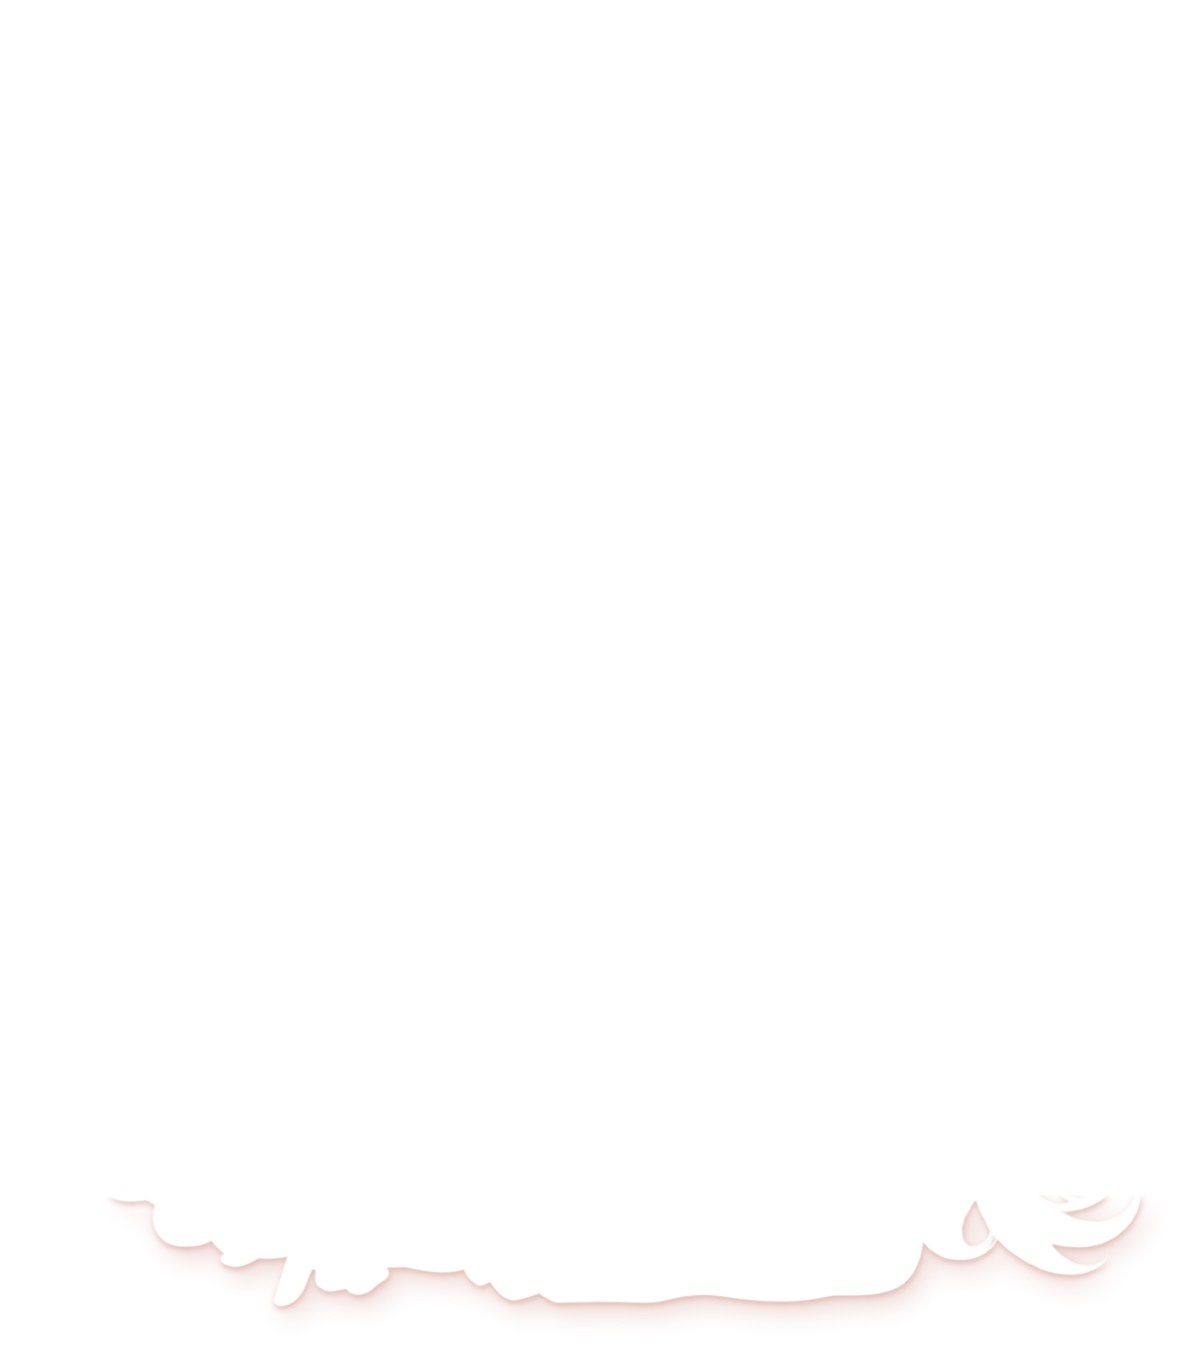
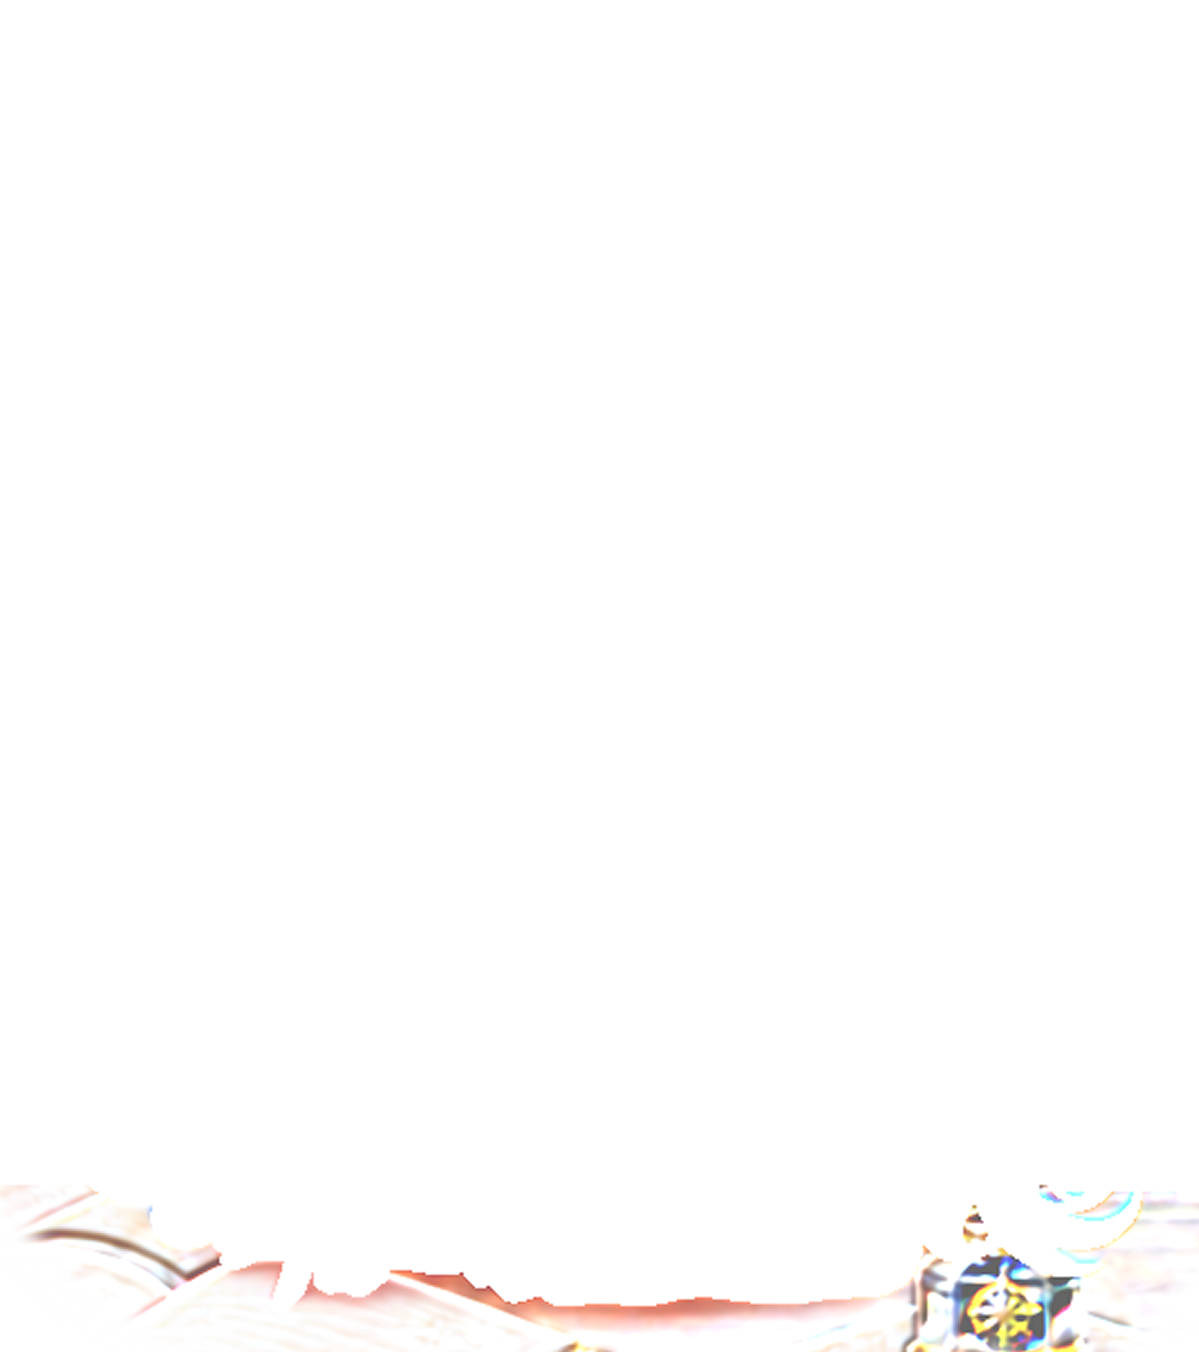
第二步完成：接触阴影取自 GPT round18，按比值搬到高清人物层和桌面投影层

Changed region(s): [[0.0309, 0.8698, 0.9875, 1.0]]

diff --git a/tools/char_layers.py b/tools/char_layers.py
@@ -16,6 +16,7 @@
 用法：python3 tools/char_layers.py --src <素材目录>/round6/relit3 [--override <素材目录>/round16] [--desk <素材目录>/round15/desk-fixed.png] [--debug <目录>]
 （--override 目录里有同名立绘时优先用它，没有的仍用 --src）
 给 GPT 画光影的输入图：python3 tools/char_layers.py --src … --desk <round15/desk-fixed.png> --compose <素材目录>/round17/输入
+阴影取自 GPT（第二步）：python3 tools/char_layers.py --src … --shade-from <素材目录>/round18 --inputs <素材目录>/round17/输入
 """
 import sys
 from pathlib import Path
@@ -56,7 +57,7 @@ EDGE = round(((DESK_BACK - FIG_Y) / FIG_K + 3) * S)   # 桌面后沿换成立绘
 CANVAS_DY = 27             # 只用于给 GPT 的输入图：整张画面往下移的像素（角色上提后呆毛会超出画布顶部）
 
 
-def char_layer(src, shade=True):
+def char_layer(src, shade=True, gpt=None):
     im = Image.open(src).convert('RGBA')
     if im.size != (W, H):
         im = im.resize((W, H), Image.LANCZOS)
@@ -76,6 +77,10 @@ def char_layer(src, shade=True):
         a[..., 3] *= 1 - side * ramp
     if not shade:   # 给 GPT 的输入图：不加我们的阴影
         return Image.fromarray(np.clip(a, 0, 255).astype('uint8')), None
+    if gpt is not None:   # 阴影取自 GPT（第二步 round18）：人物乘 fig，桌面投影层用 shadow
+        fig, shadow = gpt
+        a[..., :3] *= fig
+        return Image.fromarray(np.clip(a, 0, 255).astype('uint8')), shadow
     al = a[..., 3] / 255
     body = (al > 0.5) & (yy >= EDGE - AO_TOP)
     # 环境遮蔽：人物贴近桌面的部分（袖子下沿、袖口、手腕、手的下侧）被桌面挡光，按「往下到人物下沿的距离」压暗，
@@ -167,10 +172,83 @@ def compose_inputs(src, override, desk, out):
         print('wrote', out / f'compose-{key}.png', out / f'mask-{key}.png')
 
 
+def fit_desk(gpt_a, inp_a):
+    """GPT 常把整张轻微缩放、平移（横竖各约 0–1%、几像素）。用书桌轮廓（左右边、上下边）做线性拟合，
+    返回 (sx, sy, dx, dy)：输入图坐标 = s × GPT 坐标 + d。"""
+    def ex(a, rows):
+        out = []
+        for y in rows:
+            xs = np.nonzero(a[y] > 128)[0]
+            out.append((xs.min(), xs.max()) if len(xs) else (np.nan, np.nan))
+        return np.array(out, float).T.ravel()
+    def ey(a, cols, y0):
+        out = []
+        for x in cols:
+            ys = np.nonzero(a[y0:, x] > 128)[0]
+            out.append((ys.min() + y0, ys.max() + y0) if len(ys) else (np.nan, np.nan))
+        return np.array(out, float).T.ravel()
+    rows = np.arange(720, 1020, 10)
+    cols = np.concatenate([np.arange(60, 330, 15), np.arange(1150, 1340, 15)])
+    xg, xi = ex(gpt_a, rows), ex(inp_a, rows)
+    yg, yi = ey(gpt_a, cols, 560), ey(inp_a, cols, 560)
+    ok = ~np.isnan(xg) & ~np.isnan(xi)
+    sx, dx = np.polyfit(xg[ok], xi[ok], 1)
+    ok = ~np.isnan(yg) & ~np.isnan(yi)
+    sy, dy = np.polyfit(yg[ok], yi[ok], 1)
+    return sx, sy, dx, dy
+
+
+def gpt_shading(gpt_path, inp_path, mask_path):
+    """把 GPT 画的接触阴影搬到高清图层上（不直接用 GPT 的像素：它只有 1405 宽，而且整体会变暗）。
+    比值 = 模糊后的 GPT 图 / 模糊后的输入图（先按书桌拟合对齐），再除以人物上半身的整体漂移（GPT 整体变暗的部分）。
+    返回 (fig, shadow)：fig 是人物层（立绘坐标 × S）要乘的系数，只在桌沿附近生效；
+    shadow 是桌面投影层（立绘坐标，半分辨率），页面里正片叠底。"""
+    g = Image.open(gpt_path).convert('RGBA')
+    I = np.asarray(Image.open(inp_path).convert('RGBA')).astype(float)
+    sx, sy, dx, dy = fit_desk(np.asarray(g)[..., 3], I[..., 3])
+    G = np.asarray(g.transform((I.shape[1], I.shape[0]), Image.AFFINE, (1 / sx, 0, -dx / sx, 0, 1 / sy, -dy / sy),
+                               resample=Image.BICUBIC)).astype(float)
+    m = np.asarray(Image.open(mask_path)) > 0
+    yy = np.arange(I.shape[0])[:, None] * np.ones((1, I.shape[1]), int)
+    edge = DESK_BACK + CANVAS_DY
+    blur = lambda x, s: np.stack([ndimage.gaussian_filter(x[..., c], s) for c in range(3)], -1)
+    # 人物上半身的整体漂移（远离桌面，GPT 不该改的地方）
+    upper = ndimage.binary_erosion(m, iterations=8) & (yy < edge - 40)
+    drift = np.median(blur(G, 3)[upper] / np.maximum(blur(I, 3)[upper], 8), axis=0)
+    # 人物身上：只取桌沿附近（上方 25px 渐入），模糊 3px 去掉 GPT 重画线条的细节差，限制在 [0.55, 1]
+    rf = blur(G, 3) / np.maximum(blur(I, 3), 8) / drift
+    w = np.clip((yy - (edge - 25)) / 25, 0, 1)[..., None] * m[..., None]
+    rf = 1 - w * (1 - np.clip(rf, 0.55, 1))
+    # 桌面上（人物外、书桌不透明处）：模糊 1.2px，限制在 [0.4, 1]；书桌远处本来就没变（平均差 2.5），不用除漂移
+    desk = (I[..., 3] > 200) & ~ndimage.binary_dilation(m, iterations=1) & (yy >= edge - 3)
+    rd = np.clip(blur(G, 1.2) / np.maximum(blur(I, 1.2), 8), 0.4, 1)
+    rd[~desk] = 1
+    near = ndimage.gaussian_filter(ndimage.binary_dilation(m, iterations=45).astype(float), 4)[..., None]
+    rd = 1 - near * (1 - rd)
+    # 换到立绘坐标：输入图 (X, Y) = (FIG_X + 250, FIG_Y + CANVAS_DY) + FIG_K × 立绘坐标
+    def to_portrait(f, scale):
+        img = Image.fromarray(np.clip(f * 255, 0, 255).astype('uint8'))
+        k = FIG_K / scale
+        size = (round(W / S * scale), round((H + PAD) / S * scale))
+        out = img.transform(size, Image.AFFINE, (k, 0, FIG_X + 250, 0, k, FIG_Y + CANVAS_DY), resample=Image.BICUBIC,
+                            fillcolor=(255, 255, 255))
+        return np.asarray(out).astype(float) / 255
+    fig = to_portrait(rf, S)
+    f = to_portrait(rd, 1)
+    a = 1 - f.min(-1)                                     # 正片叠底：底色 × (1 − a + a × c) = 底色 × f
+    c = 1 - (1 - f) / np.maximum(a[..., None], 1e-3)
+    shadow = np.zeros(f.shape[:2] + (4,))
+    shadow[..., :3] = np.clip(c, 0, 1) * 255
+    shadow[..., 3] = a * 255
+    print(f'  fit sx {sx:.4f} sy {sy:.4f} dx {dx:+.1f} dy {dy:+.1f}; drift {np.round(drift, 3)}')
+    return fig, Image.fromarray(shadow.astype('uint8'))
+
+
 def main():
     args = sys.argv[1:]
     opt = lambda name: args[args.index(name) + 1] if name in args else None
     src, desk, debug, override = opt('--src'), opt('--desk'), opt('--debug'), opt('--override')
+    shade_from, inputs = opt('--shade-from'), opt('--inputs')   # 第二步：阴影取自 GPT（如 round18），inputs 是对应的输入图目录
     if '--compose' in args:
         compose_inputs(src, override, desk, opt('--compose'))
         return
@@ -183,7 +261,11 @@ def main():
         if override and (Path(override) / f'{name}.png').exists():
             path = Path(override) / f'{name}.png'   # 例如 GPT 改过手的那几张（round16）
         print('source', path.name, '<-', path.parent.name)
-        layer, shadow = char_layer(path)
+        gpt = None
+        if shade_from:
+            gpt = gpt_shading(Path(shade_from) / f'combo-{key}.png', Path(inputs) / f'compose-{key}.png',
+                              Path(inputs) / f'mask-{key}.png')
+        layer, shadow = char_layer(path, gpt=gpt)
         layer.save(DIR / f'char-{key}.png', optimize=True)
         shadow.save(DIR / f'shadow-{key}.png', optimize=True)
         layer.crop(THUMB_BOX).resize((256, 256), Image.LANCZOS).save(DIR / f'thumb-{key}.png', optimize=True)

diff --git a/docs/交接说明.md b/docs/交接说明.md
@@ -93,7 +93,7 @@ node tools/devtools.mjs eval "<JS>"                               # 查 DOM
    - 切换：每个表情一整组（书桌 + 投影 + 人物 + 羽毛笔），新的一组 220ms 完整淡入后旧的再淡出（用户要求人和桌子一起切）。
    - **当前：分三步做光影**（用户决定，2026-10-04）。提示词都在 `<素材目录>/round17/`：
      1. **已完成**（参数 230, −17, 0.96, CANVAS_DY 27，陪伴栏已同步）`第一步-codex-位置-提示词.md`：Codex 调 `tools/char_layers.py` 的 `FIG_X/FIG_Y/FIG_SCALE/CANVAS_DY`（用户手动调过一张：角色约缩小 4%、上提），重新生成 `round17/输入/`。Claude 验收后同步 `skin.css` 人物层位置（按这几个数换算）、重跑人物层、安装截图给用户确认。
-     2. `第二步-GPT-阴影-提示词.md`：GPT 只加接触阴影、颜色亮度不许改，交付 `round18/`。Claude 验收（对位、颜色差 ≤ 5、阴影暖粉不发黑），用蒙版合成到陪伴栏给用户看。
+     2. **已完成**（round18，阴影用 `--shade-from` 搬到高清图层，见修改记录）`第二步-GPT-阴影-提示词.md`：GPT 只加接触阴影、颜色亮度不许改，交付 `round18/`。Claude 验收（对位、颜色差 ≤ 5、阴影暖粉不发黑），用蒙版合成到陪伴栏给用户看。
      3. `第三步-GPT-光泽感-提示词.md`：在 round18 上加左侧冷白窗光和头发逆光，交付 `round19/`。画不好的退路：Claude 用程序加亮边和颜色校正。
    - round17 第一批（`round17/combo-*.png`，按上提 25px 的输入画）验收结果：三张对位对、默认低了 25px 且呆毛和左耳有涂抹；全部偏黄偏暗、没有逆光；呆毛被画布切掉。不用。
    - （被 round17 取代，暂不需要）relit3 默认、眨眼两张的手改成平放压着书页（提示词 `<素材目录>/relit3-手平放-提示词.md`，交付 `round16/`），到了以后验收，再 `python3 tools/char_layers.py --src <素材目录>/round6/relit3 --override <素材目录>/round16` 重跑。

diff --git a/docs/修改记录.md b/docs/修改记录.md
@@ -209,6 +209,14 @@ osascript -e 'quit app "DeepSeek Harness"' && open -a "DeepSeek Harness"
 
 ## 五、版本记录
 
+### 2026-10-04 · 第二步完成：接触阴影取自 GPT（round18），搬到高清图层上
+
+- 备份：`backup/接入GPT阴影前-20261004-112156`。
+- round18 验收：四张真透明；GPT 轻微缩放平移（横 +0.1–0.65%、竖 −0.2–+1.0%、位移 ≤ 5px，默认、好奇、眨眼宽 1404），按书桌轮廓线性拟合后头部偏差 0–4px。接触阴影是偏暖的红褐（如 (151,119,106) → (113,76,67)），不发黑，手和表情没被改。问题：人物整体略暗（中位数 2–5%，均值被重画的线条拉到 15–22），分辨率只有 1405 宽。
+- 接入方式（不直接用 GPT 的像素）：`tools/char_layers.py --shade-from <round18> --inputs <round17/输入>`。对每张：按书桌轮廓拟合并变换回输入图坐标 → 比值 = 模糊的 GPT / 模糊的输入图 → 除以人物上半身的中位数漂移（去掉整体变暗）→ 人物身上只在桌沿附近生效（上方 25px 渐入，模糊 3px，限制 0.55–1），乘到 relit3 高清人物层上；桌面上（人物外，模糊 1.2px，限制 0.4–1，离人物 45px 内）做成正片叠底的 `shadow-*.png`（颜色 c、透明度 a 满足 底色 × (1 − a + a·c) = 底色 × 比值）。程序生成的阴影不再使用（`--shade-from` 不给时仍是旧做法）。
+- 验证：对比图（程序阴影 / 搬过来的 GPT 阴影 / GPT 原图）中间那排和 GPT 原图的阴影一致、人物更清楚；build + verify 72/72，包体 7.08 MB；四个表情截图正常。截图 `/Volumes/LQ1000/陪伴栏-GPT阴影.png`（本机）。
+- 下一步：第三步光泽感，GPT 在 round18 上加左侧窗光，交付 round19；接入同样用比值搬运（相对 round18，作用于整个人物）。
+
 ### 2026-10-04 · 两侧头发不再在桌沿切掉；整组再左移一点
 
 - 备份：`backup/不切头发与再左移前-20261004-101930`。
